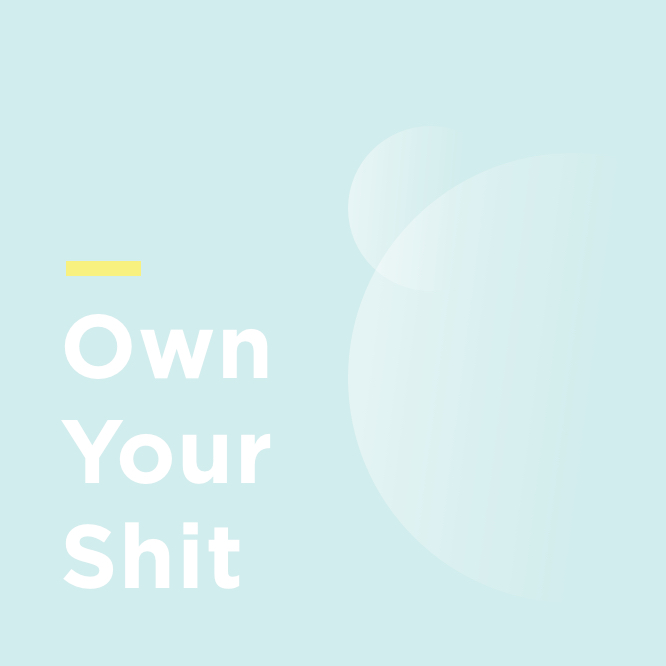
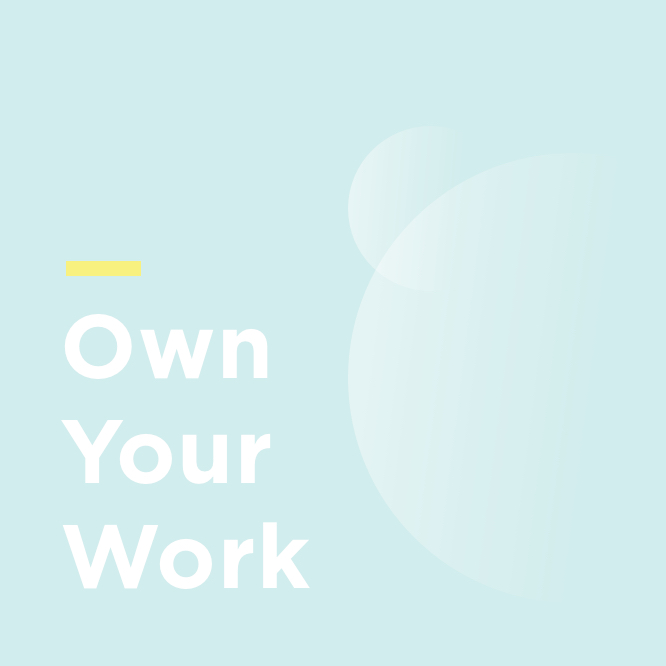
Fixed Symbility image issues

Changed region(s): [[0.0901, 0.7808, 0.4805, 0.9009]]

diff --git a/symbility.html b/symbility.html
@@ -72,7 +72,9 @@
 
             <div class="lessons__container">
               <div class="lessons__element subsection">
-                <img class="subsection-image" src="../images/assets/symbility/be_intentional.jpg">
+                <div class="subsection__image--container">
+                  <img class="subsection-image" src="../images/assets/symbility/be_intentional.jpg">
+                </div>
                 <div class="subsection-body">
                   <h4>Designing With Intent</h4>
                   <p>With complex features, comes complex interfaces. Going through
@@ -85,8 +87,8 @@
               </div>
 
               <div class="lessons__element subsection">
-                <div class="subsection-image-container">
-                <img class="subsection-image" src="../images/assets/symbility/ask_questions.jpg">
+                <div class="subsection__image--container">
+                  <img class="subsection-image" src="../images/assets/symbility/ask_questions.jpg">
                 </div>
                 <div class="subsection-body">
                   <h4>Asking Questions</h4>
@@ -99,7 +101,9 @@
               </div>
 
               <div class="lessons__element subsection">
-                <img class="subsection-image" src="../images/assets/symbility/be_curious.jpg">
+                <div class="subsection__image--container">
+                  <img class="subsection-image" src="../images/assets/symbility/be_curious.jpg">
+                </div>
                 <div class="subsection-body">
                   <h4>Be Curious</h4>
                   <p>It was exciting to work for an agency where many projects were
@@ -113,7 +117,9 @@
               </div>
 
               <div class="lessons__element subsection">
-                <img class="subsection-image" src="../images/assets/symbility/step_back.jpg">
+                <div class="subsection__image--container">
+                  <img class="subsection-image" src="../images/assets/symbility/step_back.jpg">
+                </div>
                 <div class="subsection-body">
                   <h4>Taking a Step Back</h4>
                   <p>Projects under tight deadlines and immense pressure are not unusual
@@ -126,9 +132,11 @@
               </div>
 
               <div class="lessons__element subsection">
-                <img class="subsection-image" src="../images/assets/symbility/own_it.jpg">
+                <div class="subsection__image--container">
+                  <img class="subsection-image" src="../images/assets/symbility/own_it.jpg">
+                </div>
                 <div class="subsection-body">
-                  <h4>Owning Your Shit</h4>
+                  <h4>Own Your Work</h4>
                   <p>At Symbility, Product Review runs on a biweekly basis. Product reviews
                     were a chance for designers to present their work, and provide and receive
                     valuable feedback from other designers and product managers. Through
@@ -139,7 +147,9 @@
               </div>
 
               <div class="lessons__element subsection">
-                <img class="subsection-image" src="../images/assets/symbility/design_execution.jpg">
+                <div class="subsection__image--container">
+                  <img class="subsection-image" src="../images/assets/symbility/design_execution.jpg">
+                </div>
                 <div class="subsection-body">
                   <h4>Practice Makes Closer-to-Perfect</h4>
                   <p>One of my biggest goals this co-op term was to improve my visual design skills.

diff --git a/personal.html b/personal.html
@@ -16,31 +16,32 @@
 
         <div class="section">
           <h1 class="project-name">Personal Work</h1>
+          <span>A sneak peak into the things I do in my free time</span>
           <div class="project-body">
-            <p>In my free time, I also like to sketch, watercolour paint, and make pottery
-              and crafty things. I love architecture and often like to use it as inspriation in my artwork. 
-              The following are some of my personal works over the years.
+            <p>In my free time, I like to sketch, do pottery, watercolour paint, create illustrations,
+              and make crafty things. I love architecture and often like to use it as
+              inspriation in my artwork. The following are some of my personal works over the years.
             </p>
 
             <h4 class="project__subhead">Sketches</h4>
             <img class="subsection__image--full-width" src="../images/assets/personal/mind_over_matter.png">
-            <p class="subsection--caption-content text-center"><i>Mind Over Matter</i>, watercolour and magazine cutouts on paper</p>
+            <p class="secondary--caption-content text-center"><i>Mind Over Matter</i>, watercolour and magazine cutouts on paper</p>
 
             <img class="subsection__image--full-width" src="../images/assets/personal/polaroid.png">
-            <p class="subsection--caption-content text-center"><i>Polaroid</i>, ink and cardstock on paper</p>
+            <p class="secondary--caption-content text-center"><i>Polaroid</i>, ink and cardstock on paper</p>
 
             <img class="subsection__image--full-width" src="../images/assets/personal/sketch1.png">
             <img class="subsection__image--full-width" src="../images/assets/personal/sketch2.png">
-            <p class="subsection--caption-content text-center">Quick sketch exercises, timelapses for both can be found <a href="https://www.youtube.com/watch?v=vnT0zfPwl6Q">here</a> and <a href="https://www.youtube.com/watch?v=n4vPuLCG-Oo">here</a></p>
+            <p class="secondary--caption-content text-center">Quick sketch exercises</p>
 
             <img class="subsection__image--full-width" src="../images/assets/personal/le_corbusier.png">
-            <p class="subsection--caption-content text-center"><i>Le Corbusier’s Villa Savoye</i>, watercolour and magazine cutouts on paper</p>
+            <p class="secondary--caption-content text-center"><i>Le Corbusier’s Villa Savoye</i>, watercolour and magazine cutouts on paper</p>
 
             <img class="subsection__image--full-width" src="../images/assets/personal/ludwig_mies.png">
-            <p class="subsection--caption-content text-center"><i>Ludwig Mies van der Rohe’s Farnsworth House</i>, watercolour and magazine cutouts on paper</p>
+            <p class="secondary--caption-content text-center"><i>Ludwig Mies van der Rohe’s Farnsworth House</i>, watercolour and magazine cutouts on paper</p>
 
             <img class="subsection__image--full-width" src="../images/assets/personal/sketchbook.png">
-            <p class="subsection--caption-content text-center">Sketchbook doodles</p>
+            <p class="secondary--caption-content text-center">Sketchbook doodles</p>
 
           </div>
         </div>

diff --git a/time.html b/time.html
@@ -23,7 +23,7 @@
             <p>Low productivity is often attributed by fatigue, mood, inability to focus, easy
               access to distracting devices, and more. The problem with many existing solutions
               that tackle low productivity (such as pomodoro cycle trackers and sleep trackers)
-              is that they make the assumption that the aforementioned factors are independent variables.
+              is that they make the assumption that aforementioned factors are independent variables.
               This is often not the case, as all of these factors contribute to one's overall
               performance during the day. Therefore, further exploration of how to better represent
               the impacts of the factors in everyday life on productivity was needed.
@@ -44,13 +44,13 @@
               product. Being a student that often struggles with maximizing productivity, I wanted to
               validate the pain points that I personally had by conducting contextual inquiry interviews
               with other university students. The interviews consisted of asking subjects about their
-              day-to-day lives, habits, and study routines while they were in a study environment
+              day-to-day lives, habits, and study routines while they were in a studying environment
               of their choice. In addition to gaining empathy, speaking with students in the environment
               in which they studied in allowed me to observe how their surroundings played a role in
               their study habits.
             </p>
 
-            <p>From the interviews, their biggest pain points were identified to be:
+            <p>From the interviews, it was identified that their biggest pain points were:
             <ul>
               <li>Having to balance between large amount of tasks to do for the day</li>
               <li>Determining what best works for them on a given day, as their overall
@@ -80,7 +80,7 @@
                   <h4>My Tasks</h4>
                   <p>Students are often overwhelmed by the sheer amount of tasks they need to
                     accomplish for the day, inducing stressed behaviours and demotivates students
-                    as they struggle to juggle between which tasks to complete first. To tackle
+                    as they struggle to juggle between what tasks to complete first. To tackle
                     this problem, students are prompted to enter their top three tasks to do for
                     the day. This teaches them to better prioritize their tasks, reducing work
                     overload and establishes focus for the day. Students can also use the built-in
@@ -96,7 +96,7 @@
                   <p>Amidst a busy day, students are typically out of tune with how they feel
                     throughout the day;  therefore to ensure that these moods are recorded often,
                     students will be prompted to rate their current mood throughout the day at
-                    scheduled intervals.
+                    cheduled intervals.
                   </p>
                 </div>
               </div>

diff --git a/sproutatwork.html b/sproutatwork.html
@@ -29,21 +29,23 @@
             of employees that share similar interests.
             </p>
           <h4 class="project__subhead">The Problem</h4>
-          <h4 class="project__subhead__description">Providing a seamless experience for identifying health risks</h4>
-            <p>The Sprout Health Risk Assessment (HRA) is a survey that asks users a series of 
-              questions regarding their health and lifestyles with the intention of determining risks
+          <h4 class="project__subhead__description">Identifying health risks</h4>
+            <p>Sprout is a leading corporate wellness engagement platform that allows
+              corporations to promote healthier and happier lifestyles for their employees
+              by tracking activities and joining challenges and communities. The Sprout
+              Health Risk Assessment (HRA) is a survey that asks users a series of questions
+              regarding their health and lifestyles with the intention of determining risks
               and providing recommendations on how to mitigate such risks. Being a completely
-              new feature that is to be introduced into the registration flow, the challenges
-              were designing the flow and user interfaces of the actual assessment to maintain 
-              consistency across the existing registration process.
+              new feature that is to be introduced into the registration flow, the challenge
+              was designing the flow and user interfaces of the actual assessment.
             </p>
 
           <h4 class="project__subhead">Role and Tools</h4>
             <p>For this project, I worked alongside another designer but was primarily
                 responsible for designing the workflow, interfaces, and illustrations, for
                 both web and mobile (iOS). I also provided high-fidelity mockups to developers
-                and worked closely with them to discuss the technical aspects of implementation to
-                ensure that the final product would be as accurate as possible to the proposed designs. 
+                and worked closely with them to discuss technical feasibility and and ensure
+                their implementation of my work was as accurate as possible.
             </p>
             <ul>
               <li>Pen and paper, for ideation and sketches</li>
@@ -76,7 +78,7 @@
               <p>The end result was a guided questionnaire that was informative, engaging, and
                 easy to digest. The survey was broken down into smaller subsections to avoid information
                 overload and provided users with the flexibility of completing what they wanted, when
-                they wanted.
+                they wanted to.
               </p>
 
               <div class="solutions__container">

diff --git a/illustrations.html b/illustrations.html
@@ -16,6 +16,7 @@
 
         <div class="section">
           <h1 class="project-name">Illustrations</h1>
+          <span>Building habits and getting things done</span>
           <div class="project-body">
             <p>I have a passion for creating illustrations and have been fortunate enough to be granted numerous
               opportunities throughout my internships to hone my illustration skills.
@@ -28,9 +29,6 @@
 
             <img class="subsection__image--full-width" src="../images/assets/illustrations/buildings.jpg">
             <p class="subsection--caption-content text-center">Buildings</p>
-            
-            <img class="subsection__image--full-width" src="../images/assets/illustrations/isometric_buildings.jpg">
-            <p class="subsection--caption-content text-center">Isometric buildings</p>
 
             <img class="subsection__image--full-width" src="../images/assets/illustrations/portrait.jpg">
             <p class="subsection--caption-content text-center">Self portrait</p>

diff --git a/index.html b/index.html
@@ -30,7 +30,7 @@
       </div>
 
       <div class="social-wrapper">
-        <a href="../documents/susan_resume.pdf" class="social__channel-icon social__resume">Resume</a>
+        <a href="../documents/resume_2017.pdf" class="social__channel-icon social__resume">Resume</a>
         <a href="https://ca.linkedin.com/in/susan-giang-203b7581" class="social__channel-icon social__linkedin">LinkedIn</a>
         <a href="https://www.dribbble.com/susangiang" class="social__channel-icon social__dribbble">Dribbble</a>
         <a href="https://www.instagram.com/sillyssn/" class="social__channel-icon social__instagram">Instagram</a>

diff --git a/airmiles.html b/airmiles.html
@@ -144,7 +144,7 @@
            from it.
            </p>
 
-           <div class="centered__container">
+           <div class="error_container">
            <img class="subsection__image--smaller-width" src="../images/assets/air_miles/error_miles.jpg">
            <p class="subsection--caption-content text-center">Final design for error messages that appear when the Collector does not have enough Miles to redeem</p>
 

diff --git a/styles/index.css b/styles/index.css
@@ -284,6 +284,10 @@ Secondary Pages
     margin-left: 45px;
     margin-right: 45px; } }
 
+.subsection__image--container {
+  width: 330px;
+  height: 330px; }
+
 .subsection-image {
   width: 330px;
   height: 330px; }
